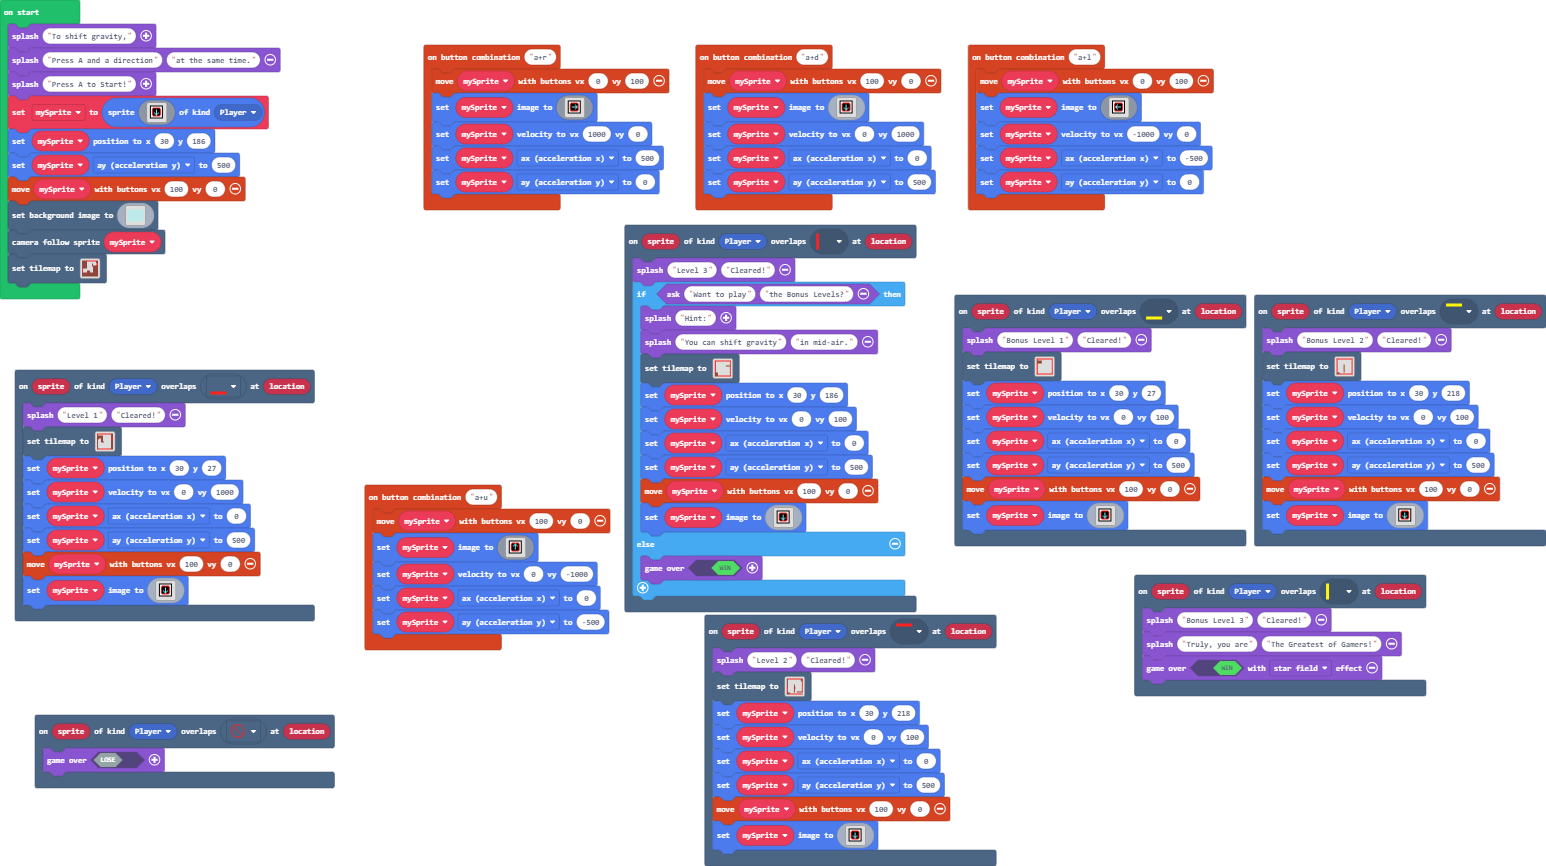
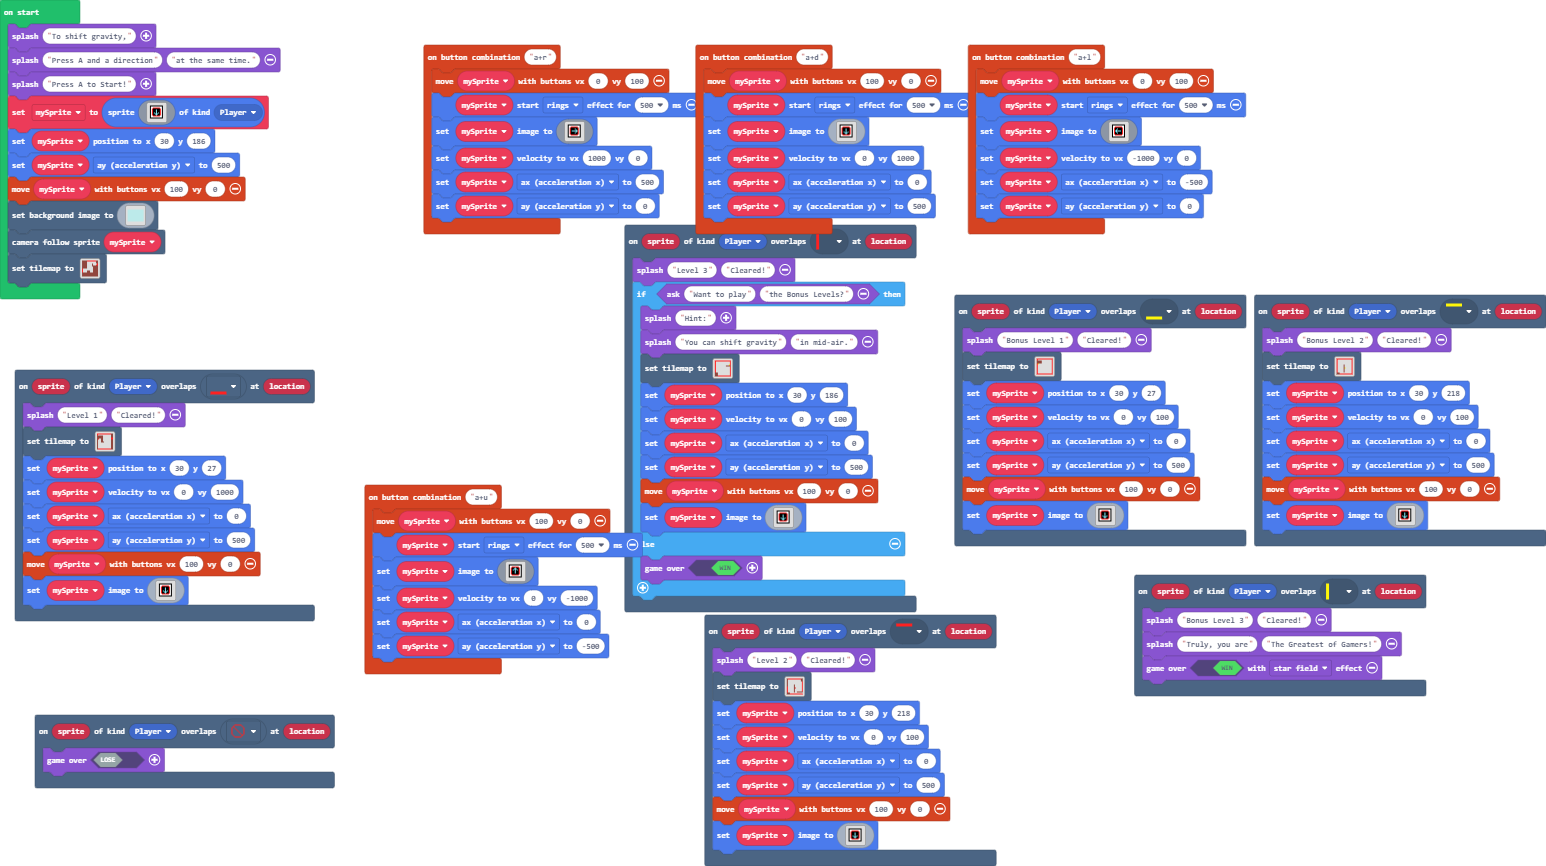
Update main.blocks, main.ts

Changed region(s): [[0.2484, 0.0935, 0.8072, 0.2806], [0.2173, 0.5924, 0.4347, 0.7794]]

diff --git a/main.ts b/main.ts
@@ -143,6 +143,7 @@ scene.onOverlapTile(SpriteKind.Player, myTiles.tile9, function (sprite, location
 })
 controller.combos.attachCombo("a+d", function () {
     controller.moveSprite(mySprite, 100, 0)
+    mySprite.startEffect(effects.rings, 500)
     mySprite.setImage(img`
         . . . . . . . . . . . . . . . . 
         . f f f f f f f f f f f f f . . 
@@ -214,6 +215,7 @@ scene.onOverlapTile(SpriteKind.Player, myTiles.tile6, function (sprite, location
 })
 controller.combos.attachCombo("a+r", function () {
     controller.moveSprite(mySprite, 0, 100)
+    mySprite.startEffect(effects.rings, 500)
     mySprite.setImage(img`
         . . . . . . . . . . . . . . . . 
         . f f f f f f f f f f f f f . . 
@@ -238,6 +240,7 @@ controller.combos.attachCombo("a+r", function () {
 })
 controller.combos.attachCombo("a+l", function () {
     controller.moveSprite(mySprite, 0, 100)
+    mySprite.startEffect(effects.rings, 500)
     mySprite.setImage(img`
         . . . . . . . . . . . . . . . . 
         . f f f f f f f f f f f f f . . 
@@ -306,6 +309,7 @@ scene.onOverlapTile(SpriteKind.Player, myTiles.tile5, function (sprite, location
 })
 controller.combos.attachCombo("a+u", function () {
     controller.moveSprite(mySprite, 100, 0)
+    mySprite.startEffect(effects.rings, 500)
     mySprite.setImage(img`
         . . . . . . . . . . . . . . . . 
         . f f f f f f f f f f f f f . . 
